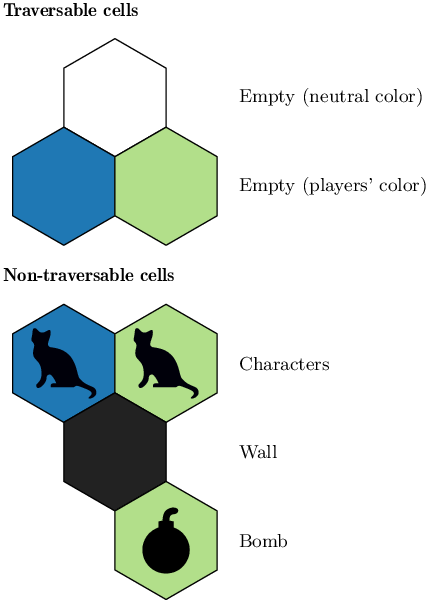
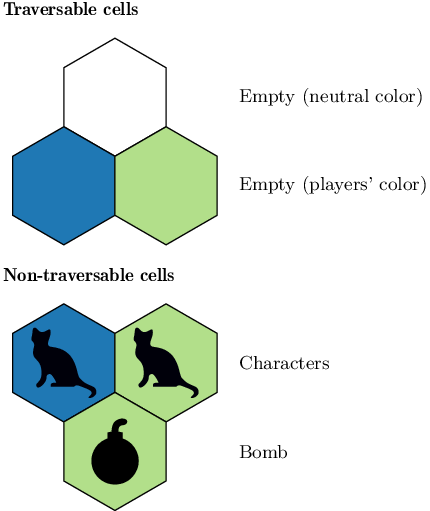
[doc] remove walls

diff --git a/docs/game.rst b/docs/game.rst
@@ -54,16 +54,9 @@ and that going into a given direction always results in the same coordinate tran
 
 Cells
 -----
-Two types of cells exist on the board: **usual cells** and **walls**.
-
-Usual cells can host characters and bombs, and have a color (that can be neutral).
-Characters can move into usual cells if they are empty — i.e., if they do not host characters nor bombs.
-Usual cells can be colored by a bomb if they are in the bomb's explosion range.
-
-Contrary to usual cells, walls are obstacles without color.
-Characters cannot move into walls.
-Bombs cannot traverse walls.
-Bomb explosions are completely stopped by walls.
+Cells can host characters and bombs, and have a color (that can be neutral).
+Characters can move into cells if they are empty — i.e., if they do not host characters nor bombs.
+Cells can be colored by a bomb if they are in the bomb's explosion range.
 
 .. image:: img/cell_types.png
    :scale: 100 %
@@ -84,11 +77,11 @@ The exhaustive list of what each character can do is the following.
 
 - Do nothing.
 - **move**: Move one cell towards one of the 6 directions.
-  The character must be alive and the target cell must be empty.
+  The character must be alive. The target cell must exist and be empty.
 - **bomb**: Drop a bomb in the character current cell.
   The character must be alive and its cell must NOT contain a bomb.
 - **revive**: Revive a dead character on a given cell.
-  The character must be dead and the target cell must be empty.
+  The character must be dead. The target cell must exist and be empty.
 
 hexabomb will apply the players' decisions in best effort.
 In case of conflicts, the faster player is priority.
@@ -123,7 +116,7 @@ Upon explosion, bombs color the cells of their explosion area with the color
 of the player that dropped the bomb — killing any character and exploding any bomb present in the explosion area.
 
 Bombs explode in straight lines in all 6 directions and cover up to *range*
-cells in each direction. A line is stopped if it encounters a wall — or after *range* cells have been covered.
+cells in each direction. A line is stopped if it encounters a non-existing cell — or after *range* cells have been covered.
 
 The animation below shows a simple game scenario involving a bomb.
 
